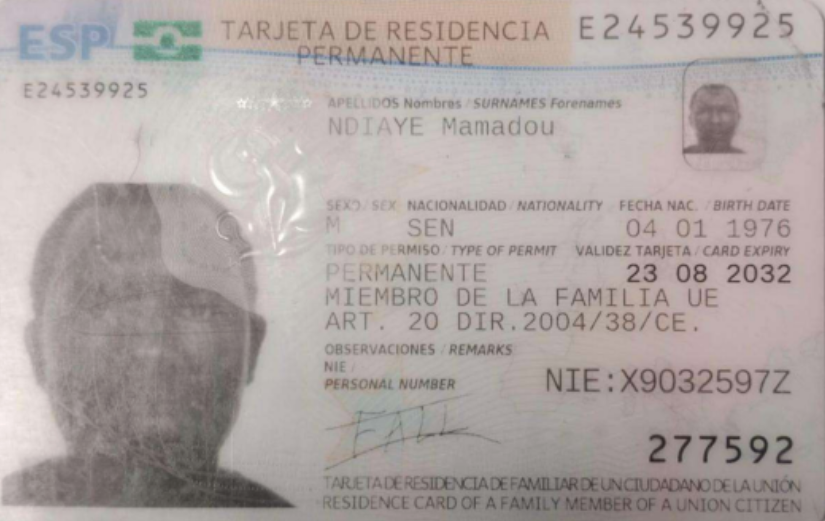
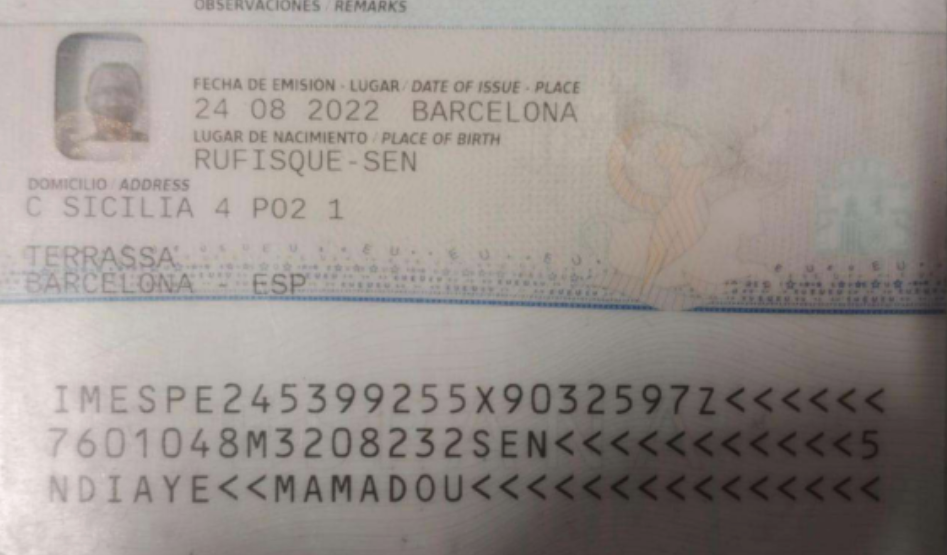
ds

diff --git a/src/components/dashboards/staff/StaffWeekScheduleWidget.tsx b/src/components/dashboards/staff/StaffWeekScheduleWidget.tsx
@@ -1,6 +1,6 @@
 'use client';
 
-import { Fragment, useCallback, useEffect, useMemo, useState } from 'react';
+import { useCallback, useEffect, useMemo, useState } from 'react';
 import { ChevronLeft, ChevronRight } from 'lucide-react';
 import {
     addMonths,
@@ -30,6 +30,7 @@ import type { WeeklyStats } from '@/lib/hours-engine/overtime-weeks-ssot';
 const WEEKDAY_LABELS = ['LUN', 'MAR', 'MIÉ', 'JUE', 'VIE', 'SÁB', 'DOM'] as const;
 
 const WEEK_GRID_COLS = 'grid-cols-7';
+const WEEK_GRID_COLS_EXT = 'grid-cols-8';
 
 type ShiftRow = {
     start_time: string;
@@ -496,7 +497,6 @@ export function StaffWeekScheduleWidget({
         <div
             data-component="StaffWeekSchedule"
             data-layout="month-inline"
-            data-ext-layout={masterMode ? 'true' : undefined}
             className="flex h-full min-h-0 w-full flex-col px-1 py-0.5"
         >
             <div className="flex shrink-0 items-center justify-center gap-0.5 pb-px">
@@ -528,33 +528,20 @@ export function StaffWeekScheduleWidget({
             </div>
 
             <div data-element="month-scroll" className="flex min-h-0 flex-1 flex-col overflow-hidden">
-                {masterMode ? (
-                    <div
-                        className="grid shrink-0"
-                        style={{ gridTemplateColumns: 'minmax(0, 1fr) auto', columnGap: 'var(--staff-calendar-gap)' }}
-                    >
-                        <div className="grid grid-cols-7 gap-px">
-                            {WEEKDAY_LABELS.map((label) => (
-                                <div key={label} className="flex items-center justify-center">
-                                    <span className="text-[5px] font-medium uppercase leading-none text-white/40">{label}</span>
-                                </div>
-                            ))}
+                <div className={cn('grid shrink-0 gap-px', masterMode ? WEEK_GRID_COLS_EXT : WEEK_GRID_COLS)}>
+                    {WEEKDAY_LABELS.map((label) => (
+                        <div key={label} className="flex items-center justify-center">
+                            <span className="text-[5px] font-medium uppercase leading-none text-white/40">{label}</span>
                         </div>
+                    ))}
+                    {masterMode ? (
                         <div className="flex items-center justify-center">
                             <span className="text-[5px] font-bold uppercase leading-none text-white/60">Ext</span>
                         </div>
-                    </div>
-                ) : (
-                    <div className={cn('grid shrink-0 gap-px', WEEK_GRID_COLS)}>
-                        {WEEKDAY_LABELS.map((label) => (
-                            <div key={label} className="flex items-center justify-center">
-                                <span className="text-[5px] font-medium uppercase leading-none text-white/40">{label}</span>
-                            </div>
-                        ))}
-                    </div>
-                )}
+                    ) : null}
+                </div>
 
-                <div data-element="month-weeks" className={cn('min-h-0 flex-1 overflow-hidden', !masterMode && 'flex flex-col')}>
+                <div data-element="month-weeks" className="flex min-h-0 flex-1 flex-col overflow-hidden">
                     {loading ? (
                         <div className="flex flex-1 items-center justify-center" role="status" aria-label="Cargando horarios">
                             <LoadingSpinner size="sm" className="text-white" />
@@ -611,36 +598,53 @@ export function StaffWeekScheduleWidget({
                                     />
                                 ) : null;
 
-                                const weekBlock = (
+                                return (
                                     <div
+                                        key={weekKey}
                                         data-element="week-block"
                                         data-expanded={isExpanded ? 'true' : undefined}
                                     >
-                                        <div
-                                            className={cn('grid gap-px', WEEK_GRID_COLS)}
-                                            data-week-row={isExpanded ? 'expanded' : undefined}
-                                        >
-                                            {dayButtons}
-                                        </div>
-
-                                        {isExpanded ? (
-                                            <WeekExpansion
-                                                weekDays={weekDays}
-                                                shifts={shifts}
-                                                eventsByDate={eventsByDate}
-                                                onOpenDay={onOpenNote}
-                                            />
-                                        ) : null}
+                                        {masterMode ? (
+                                            <div className="grid grid-cols-8 gap-px">
+                                                <div
+                                                    className="col-span-7 grid grid-cols-7 gap-px"
+                                                    data-week-row={isExpanded ? 'expanded' : undefined}
+                                                >
+                                                    {dayButtons}
+                                                </div>
+                                                <div className="col-span-1 flex items-center justify-center" data-element="week-ext-cell">
+                                                    {extCell}
+                                                </div>
+                                                {isExpanded ? (
+                                                    <div className="col-span-7">
+                                                        <WeekExpansion
+                                                            weekDays={weekDays}
+                                                            shifts={shifts}
+                                                            eventsByDate={eventsByDate}
+                                                            onOpenDay={onOpenNote}
+                                                        />
+                                                    </div>
+                                                ) : null}
+                                            </div>
+                                        ) : (
+                                            <>
+                                                <div
+                                                    className={cn('grid gap-px', WEEK_GRID_COLS)}
+                                                    data-week-row={isExpanded ? 'expanded' : undefined}
+                                                >
+                                                    {dayButtons}
+                                                </div>
+                                                {isExpanded ? (
+                                                    <WeekExpansion
+                                                        weekDays={weekDays}
+                                                        shifts={shifts}
+                                                        eventsByDate={eventsByDate}
+                                                        onOpenDay={onOpenNote}
+                                                    />
+                                                ) : null}
+                                            </>
+                                        )}
                                     </div>
-                                );
-
-                                return masterMode ? (
-                                    <Fragment key={weekKey}>
-                                        {weekBlock}
-                                        <div data-element="ext-cell">{extCell}</div>
-                                    </Fragment>
-                                ) : (
-                                    <div key={weekKey}>{weekBlock}</div>
                                 );
                             })}
                         </>

diff --git a/src/components/profile/DatosPersonalesModal.tsx b/src/components/profile/DatosPersonalesModal.tsx
@@ -43,7 +43,7 @@ function formatBirthDate(ymd?: string | null): string {
     if (!ymd) return '';
     const [y, m, d] = ymd.split('-').map(Number);
     if (!y || !m || !d) return ymd;
-    return format(new Date(y, m - 1, d), "d 'de' MMMM 'de' yyyy", { locale: es });
+    return format(new Date(y, m - 1, d), 'd MMMM yyyy', { locale: es });
 }
 
 function displayValue(value: string | null | undefined): string {
@@ -153,7 +153,7 @@ export default function DatosPersonalesModal({
     );
 
     const recordContent = (
-        <div className="p-ds-3">
+        <div className="px-ds-3 pt-ds-3 pb-ds-6">
             <div className="rounded-2xl bg-white px-ds-4 py-ds-3 shadow-sm" data-element="personal-record">
                 <div className="flex items-center py-ds-1">
                     <div className="min-w-0 flex-1">
@@ -389,7 +389,6 @@ function FieldCell({
 function DocImage({ src, label }: { src: string; label: string }) {
     return (
         <div className="min-w-0">
-            <p className="text-[11px] font-medium leading-tight text-zinc-500">{label}</p>
             <img
                 src={src}
                 alt={`${label} del documento`}

diff --git a/src/app/staff/history/WeekCard.tsx b/src/app/staff/history/WeekCard.tsx
@@ -286,7 +286,7 @@ export function WeekCard({
                 data-week-footer="true"
                 data-overrides={overridesEnabled ? 'true' : undefined}
                 className={cn(
-                    'relative z-10 flex w-full items-stretch overflow-hidden border-t border-gray-100 bg-white',
+                    'relative z-10 flex w-full items-stretch overflow-visible border-t border-gray-100 bg-white',
                     overridesEnabled ? 'min-h-[48px]' : 'h-[20px] min-h-[20px] max-h-[20px] py-px',
                     stacked && !isLast && 'rounded-none',
                 )}
@@ -377,7 +377,7 @@ export function WeekCard({
                 {week.summary.isPaid ? (
                     <div
                         data-week-paid="true"
-                        className="flex h-full shrink-0 items-center justify-center self-stretch"
+                        className="pointer-events-none absolute right-0 bottom-0 z-20 flex items-center justify-center"
                     >
                         <img
                             src="/sello/pagado.png"

diff --git a/src/app/globals.css b/src/app/globals.css
@@ -2673,19 +2673,6 @@ button[data-element='catalog-filter'] {
   min-height: 0;
   overflow: hidden;
 }
-[data-component='StaffWeekSchedule'][data-ext-layout='true'] [data-element='month-weeks'] {
-  display: grid;
-  grid-template-columns: minmax(0, 1fr) auto;
-  grid-auto-rows: auto;
-  gap: var(--staff-calendar-gap);
-  align-items: stretch;
-}
-[data-component='StaffWeekSchedule'][data-ext-layout='true'] [data-element='month-weeks'] > [data-element='ext-cell'] {
-  display: flex;
-  align-items: center;
-  justify-content: center;
-  min-width: 0;
-}
 [data-component='StaffWeekSchedule'] [data-element='week-block'] {
   display: flex;
   flex-direction: column;
@@ -3363,7 +3350,7 @@ button[data-element='catalog-filter'] {
   max-height: 20px;
   padding-top: 1px;
   padding-bottom: 1px;
-  overflow: hidden;
+  overflow: visible;
   border-top-width: 0.5px;
 }
 [data-week-summary] .month-cal-weeks > [data-week-footer] span {

diff --git a/marbella-os/5-estado/CHANGELOG.md b/marbella-os/5-estado/CHANGELOG.md
@@ -42,7 +42,7 @@ Una entrada por cambio, agrupadas por fecha descendente. Cada entrada: qué camb
 
 ## 2026-09-06
 
-- **Master: la columna «Ext» del horario se aísla en su propia card.** El calendario del widget de horario separa la columna de horas extra del mes: la expansión de sáb/dom y la card de la semana seleccionada quedan dentro del calendario de 7 días, y los valores «Ext» se agrupan en cards verticales a la derecha, sin tocar ni pisar las cards del fin de semana ni la de la semana en curso.
+- **Master: la columna «Ext» del horario queda dentro del calendario sin solaparse.** El widget de horario mantiene las 8 columnas alineadas (7 días + Ext); la card de la semana seleccionada cubre solo hasta DOM y la expansión de sáb/dom se limita a las 7 primeras columnas, de modo que la columna de horas extra no se toca ni se pisa con la de domingo ni con la de la semana en curso. Los valores «Ext» se muestran en cards con fondo, vacías cuando no hay importe.
 
 - **Master: el mosaico cambia de iconos y orden.** Desaparece el icono «H extras» del mosaico y entra «Plantilla»; «Uso app» deja el mosaico y entra «Recetas». El orden queda: C Inicial debajo de la asistencia del día, fila 5 (reservas, ingredientes, recetas, albaranes) y fila 6 (otros, cajas cambio, plantilla, cambio). El modal «Otros» pierde Plantilla y Recetas (ahora en el mosaico) y gana Uso app.
 

diff --git a/marbella-os/.generated/CARGA-DE-CONTEXTO.md b/marbella-os/.generated/CARGA-DE-CONTEXTO.md
@@ -1,5 +1,5 @@
 <!-- Generado desde 55 documentos de marbella-os/.
-     Huella del origen: 47ebe7d5e06edfcc
+     Huella del origen: 51f976a02e6a8b50
      NO EDITAR A MANO: se regenera con `npm run generate:corpus`, y
      `npm run validate:corpus` compara este fichero con lo que produce
      el generador. Cualquier edición manual se detecta. -->
